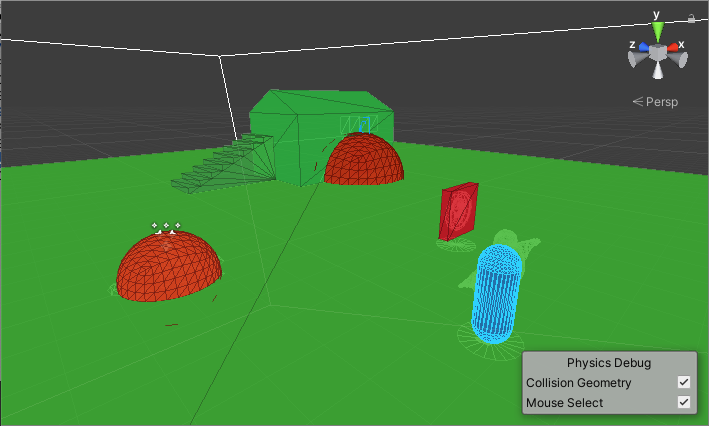
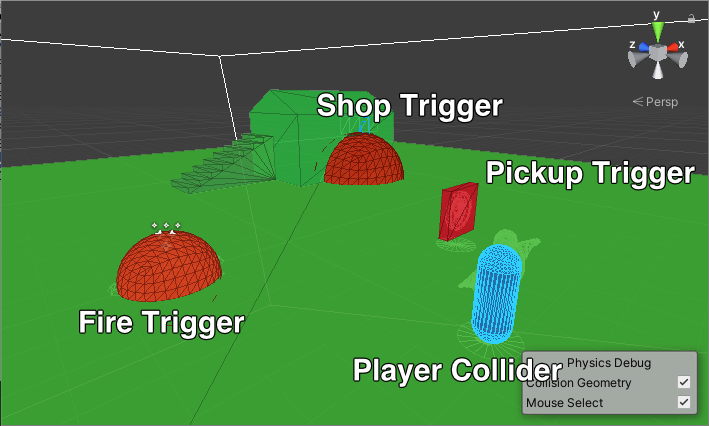
Readme updates

diff --git a/README.md b/README.md
@@ -1,42 +1,78 @@
-# Reactive Menu and Prefab Workflow Example
+# Unity3D Reactive Menu and Prefab
+### A Workflow Example using Unity Atoms and UI Extensions Menus
 
-Standard prefab workflow doesn’t allow you to save references to scene managers or scene objects. 
+###### Overview
+Game managers and UI Canvas managers can get out of hand and spiral into spaghetti code land quickly as they start to span multiple scenes.
 
-<https://github.com/AdamRamberg/unity-atoms>
-
-<https://bitbucket.org/UnityUIExtensions/unity-ui-extensions/>
+Standard prefab workflow doesn’t allow you to save references to scene managers or scene objects either, so you can quickly end up in a tangles set of singletons that have multiple dependancies and code starts becoming complex and narrowly focused.
 
 
-An alternative “architecture” is to use Scriptable Objects to store global data which communicate their state changes using events. Scriptable Objects are static assets that live in the project not in individual scenes, they are similar to monobehaviors but don’t have the magic methods like Awake, Start, Update. Scriptable Objects are often used to store data, like inventory or player stats, they can also contain methods and  raise events, which can be subscribed to. By using them like that you can decouple a lot of your scripts, and use these Scriptable Object assets to replace the “master” singleton data manager setup which gets spaghetti-ish very quickly. 
+An alternative “architecture” is to use Scriptable Objects to store global data which communicate their state changes using events. Scriptable Objects are static assets that live in the project not in individual scenes, they are similar to monobehaviors but don’t have the magic Update methods. Scriptable Objects are often used to store data, like inventory or player stats, they can also contain methods and raise events, which can be subscribed to. By using them to store game data with event that communicate when changes happen you can decouple a lot of your scripts, and use these Scriptable Object assets to replace the multitude of “master” singleton data managers.
 
 I highly recommend Ryan Hipple’s talk on this at Unite in 2017 <https://www.youtube.com/watch?v=raQ3iHhE_Kk>
-That talk has a ton of great ideas and ways to help team workflow. It also inspired a few projects to implement it. I’ve tried a couple and found Unity Atoms my favorite, it has a lot of additional functionality, I mainly just use the simplest implementation of it, just variables that raise events.
-
-Unity Atoms is an implementation of this workflow.
-
-Within Unity UI Extensions is a menu manager, which was taken from Adam Kapos - Yousician 2017 Unite talk - Building an easy to use menu system.
-<https://www.youtube.com/watch?v=wbmjturGbAQ>
-
-With a small adjustment to the scripts this can be repurposed as a generic prefab loader (I have submitted a pull request for the change so check the latest version at the repository).
-
-Within the menu manager repo you can find a few examples, essentially its a prefab loader that handles canvas states really nicely and solves a lot of the usual manu and canvas issues when doing anything remotely complex with multiple UIs.
-
-By using these two open source projects with Unity you can architect away from multiple game managers and singletons into a refined and event based reactive workflow.
-
-This repository is a demo of using these 2 projects to handle game health and a shop UI to replenish the player health.
+That talk has a ton of great ideas and ways to help team workflow. It also inspired a few projects to implement it. 
+I've tried a couple and found Unity Atoms <https://github.com/AdamRamberg/unity-atoms> my favorite, it has a lot of additional functionality and great Editor support for debugging and testing a scene.
 
 
-# Other Assets used in the example
+Unity UI Extensions <https://bitbucket.org/UnityUIExtensions/unity-ui-extensions/> is a great set of components that help flesh out some of the missing parts of Unity's UI System (I've used the primitives in most of my menus). 
+Unity UI Extensions has a great menu manager, which is a modified version of Adam Kapos - Building an easy to use menu system, he gives a great talk on it here, Yousician at Unite 2017 <https://www.youtube.com/watch?v=wbmjturGbAQ>
+
+Within the menu manager repo you can find a few examples, essentially its a canvas prefab loader that handles canvas states and solves a lot of the usual menu and canvas issues when doing anything remotely complex with multiple UIs.
+
+One of the restrictions of this UI manager is communicating with the scenes as they are segregated "off scene" prefabs. By using the Unity Atoms as the communication “glue” between the prefabs and the scene data you can create an organised event based reactive workflow.
+
+This repository is a demo with these 2 projects combined to handle game health and a shop UI to replenish the player health. I’ve also added a game state listener outside of the scene.
+
+
+
+# Scene setup
+Trigger colliders which update integer atoms.
+![Physics Setup](Docs/physics-view.png)
+
+## Scripts 
+######Scripts/GameStateTrigger.cs
+Changes game state when triggered - used here on the Shop entrance.
+
+######Scripts/IntValueChangerTrigger.cs
+Changes an integer value when entered. Used for the coin pickup and the fire damage.
+
+######Scripts/ProjectEnums.cs
+The enums for the game states
+
+######Scripts/GlobalManagerSO.cs
+This is the definition for the Global Manager Scriptable Object which lives outside the scene. Once written you need an instance in the project (ScriptableObjects/GlobalManager.asset). This handles opening the shop menu when it detects a game state change and monitors player health and shows the gameover menu.
+
+
+## Atoms
+I created a custom atom from an enum to communicate “global” game states. There is a generator supplied within Atoms, the result is in the "CustomAtoms" folder.
+One oddity with C# is enums don't fully support equitability (IMPORTANT: note the equatable is unticked for this one). After generation I had to modify the generated code in CustomAtoms/Variables/GameStateVariable.cs  
+![Created a custom atom](Docs/custom-atom.png)
+Other Atoms are standard base atoms, player health and coins collected. There is also a "PlayerCanMove" boolean stops player input in menus. 
+
+## Menu Manager & Menu Prefabs
+The menu system requires a class and prefab naming scheme to be followed and the MenuManager needs to be added to every scene. 
+![Menu Manager](Docs/menu-manager.png)
+
+
+## Game Manager Scriptable Object
+The scriptable object subscribes to the changes to the Global game state atom. This allows communication from the prefab menus and scene. 
+
+
+# Assets used links
+ 
+To get the scene up and running quickly I’ve use the standard assets third person controller and some programmer art
 
 ### from:
 Wrestler from Mixamo <https://www.mixamo.com/> (decimated in Blender <https://www.blender.org/> )
 
-The shader is by Carlos Wilkes <http://carloswilkes.com/> from <https://assetstore.unity.com/packages/tools/animation/lean-transition-144107>
+The block color shader is by Carlos Wilkes <http://carloswilkes.com/> from <https://assetstore.unity.com/packages/tools/animation/lean-transition-144107>
 
 Standard Assets character controller and animations
 <https://assetstore.unity.com/packages/essentials/asset-packs/standard-assets-for-unity-2018-4-32351>
 
 Font: Luckiest Guy <https://fonts.google.com/specimen/Luckiest+Guy>
 
-Flipbook images are cartoonified versions of flipbooks from Unity Labs
+Flipbook images are cartoonified (Cutout filter) versions of flipbooks from Unity Labs
 <https://blogs.unity3d.com/2016/11/28/free-vfx-image-sequences-flipbooks/>
+
+
